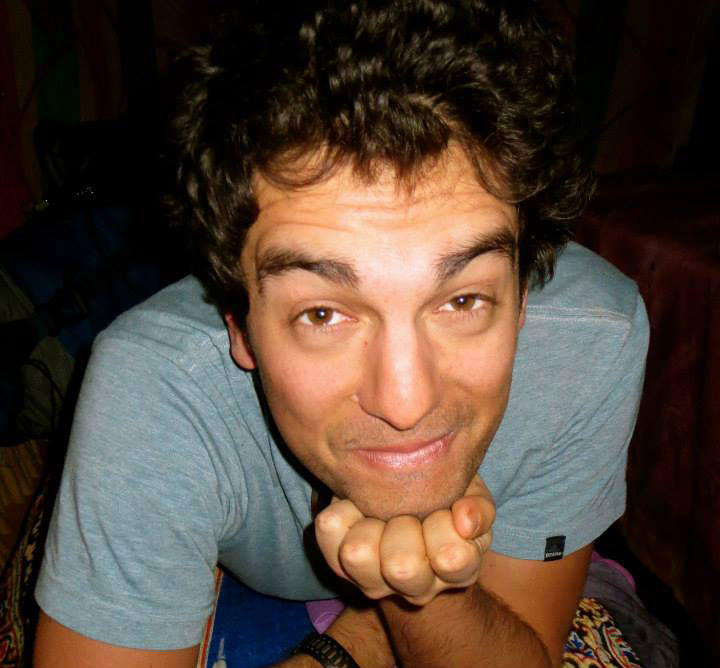
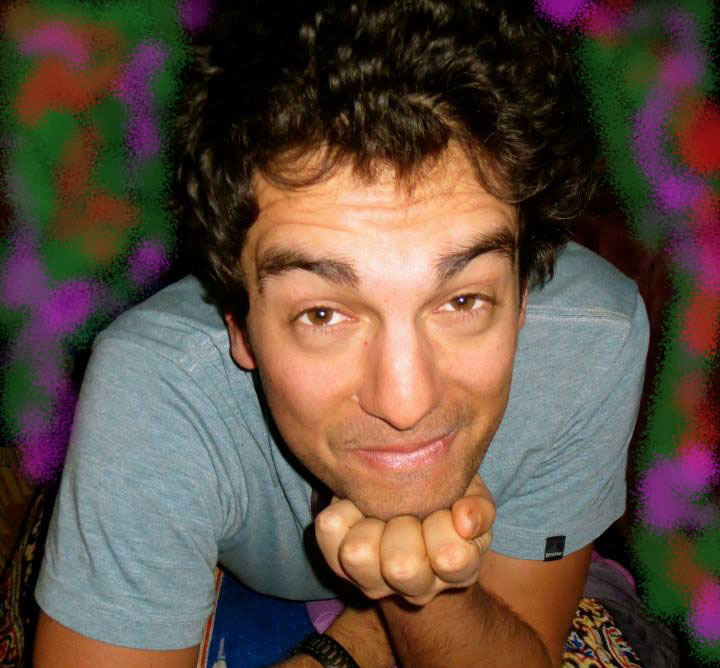
new floor

Changed region(s): [[0.0, 0.0, 0.3056, 0.7186], [0.7333, 0.0, 1.0, 1.0]]

diff --git a/js/floor.js b/js/floor.js
@@ -1,74 +1,3 @@
 var Floor = function() {
-  var x, y;
-  var flipflop = false;
-  var size = 1024;
-  var rtTexture = new THREE.WebGLRenderTarget(size, size,{
-    minFilter: THREE.NearestFilter,
-    magFilter: THREE.NearestFilter,
-    format: THREE.RGBAFormat,
-    type: THREE.FloatType,
-    stencilBuffer: false
-  });
-  var rtTexture2 = rtTexture.clone();
-
-  var sceneRTT = new THREE.Scene();
-  var cameraRTT = new THREE.OrthographicCamera(-0.5, 0.5, 0.5, -0.5, 0, 1);
-  var simulationMaterial = new THREE.ShaderMaterial({
-    uniforms: {
-      playerPosition: {
-        type: 'v2',
-        value: new THREE.Vector2()
-      },
-      state: {
-        type: 't',
-        value: rtTexture2
-      },
-      time: {
-        type: 'f',
-        value: 0.0
-      }
-    },
-    vertexShader: shaders.vertexShaders.floor,
-    fragmentShader: shaders.fragmentShaders.floorPass
-  });
-  var mesh = new THREE.Mesh(new THREE.PlaneGeometry(1, 1), simulationMaterial);
-  sceneRTT.add(mesh);
-
-  var floorMaterial = new THREE.ShaderMaterial({
-    uniforms: {
-      map: {
-        type: 't',
-        value: rtTexture
-      },
-    },
-    vertexShader: shaders.vertexShaders.floor,
-    fragmentShader: shaders.fragmentShaders.floor
-  });
-
   
-  var floorGeo = new THREE.PlaneGeometry(hallLength, hallLength)
-  var floor = new THREE.Mesh(floorGeo);
-  floor.rotation.x = -Math.PI / 2;
-  floor.position.z -= hallLength / 2;
-  scene.add(floor);
-
-  this.update = function() {
-
-    if(flipflop){
-      simulationMaterial.uniforms.state.value = rtTexture;
-      renderer.render(sceneRTT, cameraRTT, rtTexture2, false);
-    }
-    else{
-      simulationMaterial.uniforms.state.value = rtTexture2;
-      renderer.render(sceneRTT,cameraRTT, rtTexture, false);
-    }
-    flipflop = !flipflop
-    x = map(controlObject.position.x, -hallWidth / 2, hallWidth / 2, 0, 1);
-    y = map(controlObject.position.z, -hallLength, 0, 1, 0);
-    
-    simulationMaterial.uniforms.time.value = time;
-    simulationMaterial.uniforms.playerPosition.value.set(x,y);
-
-
-  }
 }

diff --git a/js/dotphoto.js b/js/dotphoto.js
@@ -1,4 +1,6 @@
 var DotPhoto = function() {
+  var x, y, r, g, b, a, radius, maxRadius;
+  var numDotsPerFrame = 100;
   var canvas = document.createElement('canvas');
   var width = 720;
   var height = 668;
@@ -17,28 +19,33 @@ var DotPhoto = function() {
     ctx.drawImage(image, 0, 0, width, height);
     imageData = ctx.getImageData(0, 0, width, height).data;
     canvasTexture.needsUpdate = true;
+    ctx.fillStyle = 'black';
+    ctx.fillRect(0, 0, width, height);
   }
   var photoMesh = new THREE.Mesh(new THREE.PlaneGeometry(width, height), photoMat);
-  photoMesh.scale.multiplyScalar(.3);
+  photoMesh.scale.multiplyScalar(.35);
   photoMesh.position.set(-hallLength / 2 + photoGap, photoHeight, -hallLength * 0.25);
   photoMesh.rotation.y = Math.PI / 2;
   photoMesh.castShadow = true;
   scene.add(photoMesh);
 
   this.update = function() {
-    // pick out pixel data from x, y coordinate
-    var x = 400;
-    var y = 400;
-    var r= imageData[((width * y) + x) * 4];
-    var g = imageData[((width * y) + x) * 4 + 1];
-    var b = imageData[((width * y) + x) * 4 + 2];
-    var a = imageData[((width * y) + x) * 4 + 3];
-    
-    var radius = 50;
-    ctx.beginPath();
-    ctx.fillStyle = rgbToFillStyle(r, g, b, a);
-    ctx.arc(x, y, radius, 0, Math.PI * 2);
-    ctx.fill();
+    maxRadius = 20 * Math.abs(Math.sin(time * .1));
+    for(var i = 0; i < numDotsPerFrame; i++){
+
+      // pick out pixel data from x, y coordinate
+      x = _.random(0, width);
+      y = _.random(0, height);
+      r= imageData[((width * y) + x) * 4];
+      g = imageData[((width * y) + x) * 4 + 1];
+      b = imageData[((width * y) + x) * 4 + 2];
+      a = imageData[((width * y) + x) * 4 + 3];
+      radius = _.random(1, maxRadius);
+      ctx.beginPath();
+      ctx.fillStyle = rgbToFillStyle(r, g, b, a);
+      ctx.arc(x, y, radius, 0, Math.PI * 2);
+      ctx.fill();
+    }
     canvasTexture.needsUpdate = true;
   }
 
